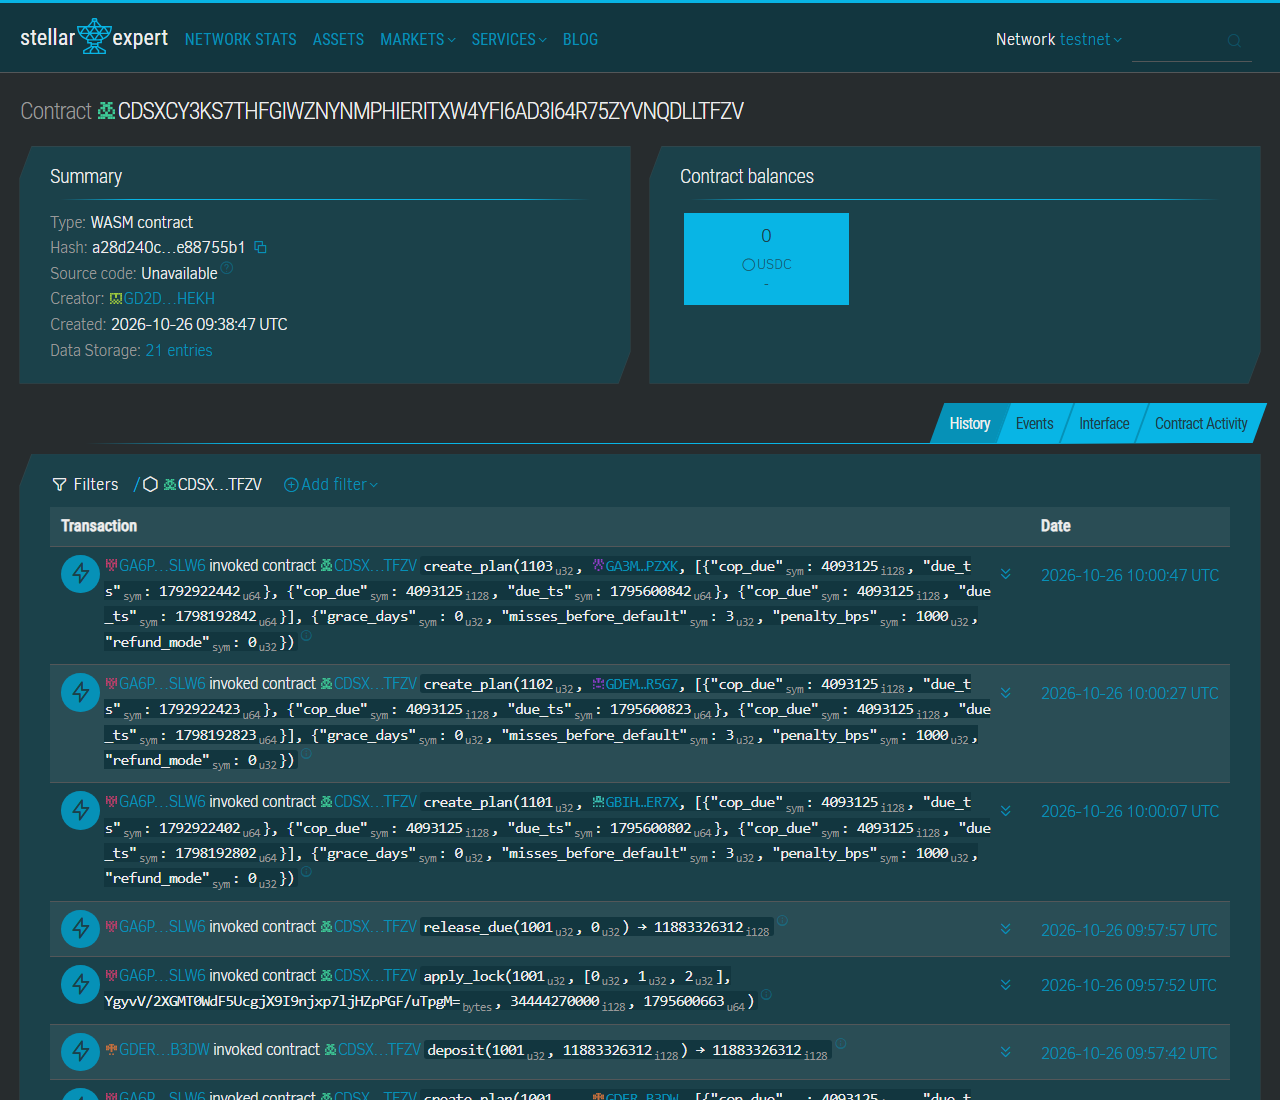
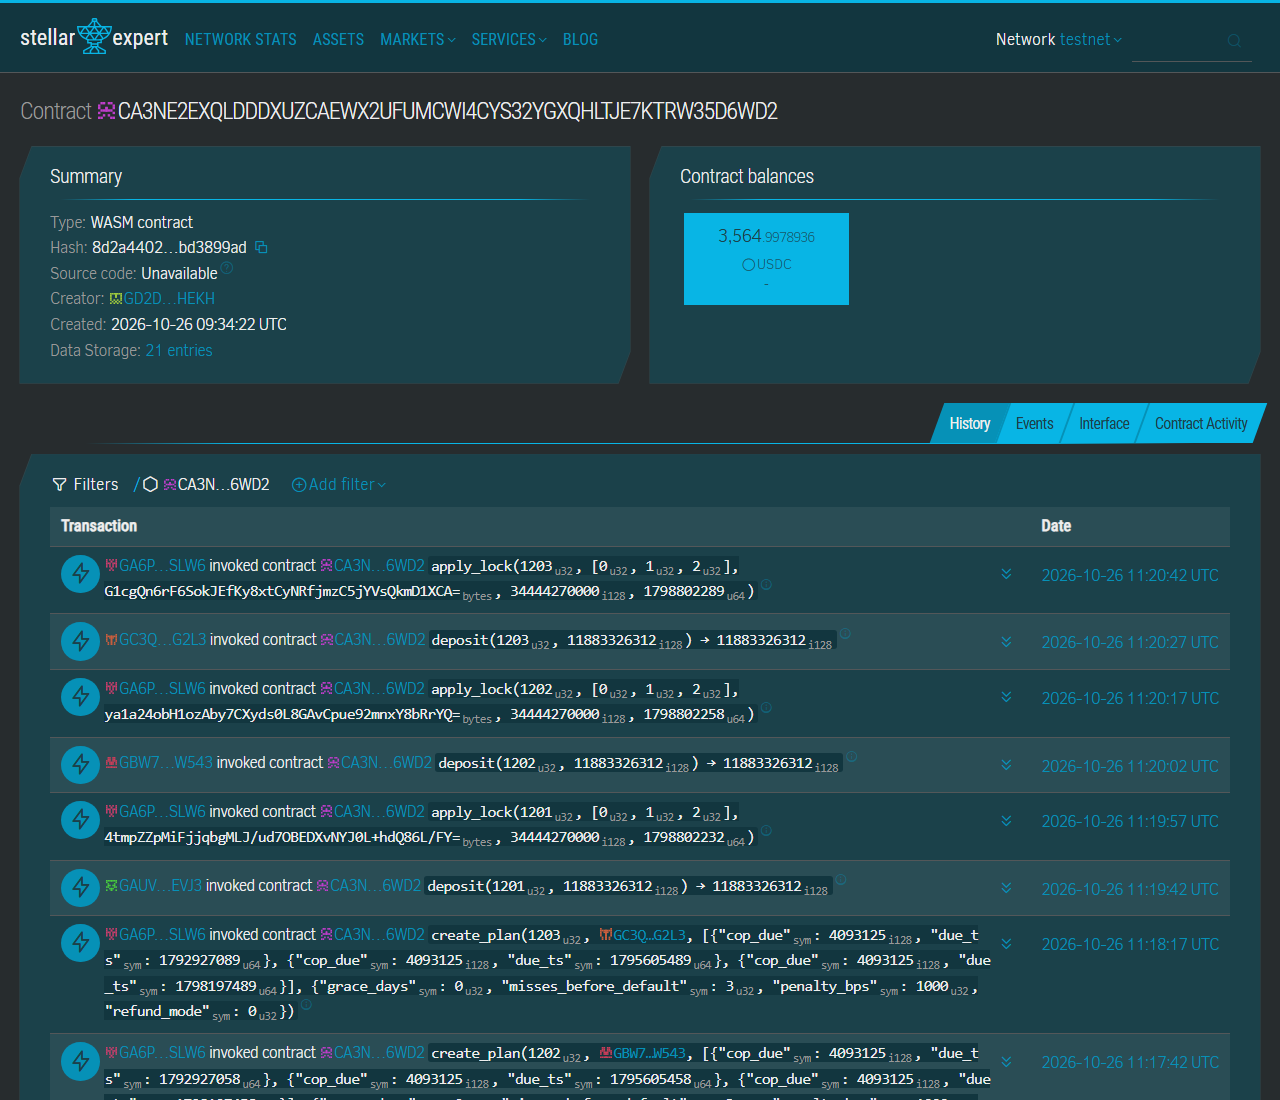
docs(testnet): headline docs on the 8d2a pair; rent cause of the 32.7 XLM deploy
README/RUNNING/CORRIDORS name CA3NE2EX...6WD2 and CACDLCHA...VQGA.
WALKTHROUGH covers plans 1004/2004, the 8d2a pool and the superseded first
run (1001: lock expiry rule fixed afterwards). Screenshots of the headline
pages; first-run shots moved to screenshots/first-run/. Norms: headline
instances entry, rent cause (first instantiation extends the new code
entry's TTL to 120 days), session line. CRLF preserved.

diff --git a/docs/demo-runs/2026-10-26-testnet/WALKTHROUGH.md b/docs/demo-runs/2026-10-26-testnet/WALKTHROUGH.md
@@ -2,19 +2,23 @@
 
 Both corridors ran end to end on Stellar testnet with real transactions. Every hash below was
 re-verified with RPC `getTransaction` (status `SUCCESS`) before it was listed. The full list is
-in [`evidence/testnet-2026-10-26.json`](../../../evidence/testnet-2026-10-26.json): 46
-transactions with their step, corridor, contract, ledger, time, fee and explorer link.
+in [`evidence/testnet-2026-10-26.json`](../../../evidence/testnet-2026-10-26.json): 84
+transactions with their step, contract set, corridor, contract, ledger, time, fee and explorer link.
 
-## Contracts
+## Contracts (headline)
 
-| Corridor | Contract | Wasm | Replaces |
-| --- | --- | --- | --- |
-| Colombia | [`CDSXCY3KS7THFGIWZNYNMPHIERITXW4YFI6AD3I64R75ZYVNQDLLTFZV`](https://stellar.expert/explorer/testnet/contract/CDSXCY3KS7THFGIWZNYNMPHIERITXW4YFI6AD3I64R75ZYVNQDLLTFZV) | `a28d240c…755b1` | `CAVPFFH4…CTXP` |
-| El Salvador | [`CCNWBC5NN5EEWRLTAQ72URIOJ4MDLIAZCIQ3VIL7BUYPPLBPZOTI22MF`](https://stellar.expert/explorer/testnet/contract/CCNWBC5NN5EEWRLTAQ72URIOJ4MDLIAZCIQ3VIL7BUYPPLBPZOTI22MF) | `a28d240c…755b1` | `CC5Y77X3…LEBQ` |
+`stellar contract build` at tag `testnet-2026-10-26` produces Wasm
[1 lines of base64/hex data omitted]
+instances run exactly that Wasm:
+
+| Corridor | Contract | Replaces |
+| --- | --- | --- |
+| Colombia | [`CA3NE2EXQLDDDXUZCAEWX2UFUMCWI4CYS32YGXQHLTJE7KTRW35D6WD2`](https://stellar.expert/explorer/testnet/contract/CA3NE2EXQLDDDXUZCAEWX2UFUMCWI4CYS32YGXQHLTJE7KTRW35D6WD2) | `CAVPFFH4…CTXP` |
+| El Salvador | [`CACDLCHAKPJDVYRKJKK3KKMEBLBKLTYISYX6EQO54VQIZJX3CTUTVQGA`](https://stellar.expert/explorer/testnet/contract/CACDLCHAKPJDVYRKJKK3KKMEBLBKLTYISYX6EQO54VQIZJX3CTUTVQGA) | `CC5Y77X3…LEBQ` |
 
 - Why new instances: the operator stored in the old instances (`GB73VDL7…HS7A`) is not the key in
-  `.env.testnet`, and the contract cannot rotate its operator. Both new instances were deployed from
-  the already-installed Wasm (no upload). Operator and admin are `GA6PFKPK…SLW6`.
+  `.env.testnet`, and the contract cannot rotate its operator. Operator and admin of the new
+  instances are `GA6PFKPK…SLW6`.
 - **Config still points to the old ids.** The owner of `config/**` and the env must set
   `PAYMENT_PLAN_CONTRACT_ID` and `PAYMENT_PLAN_CONTRACT_ID_SV` to the ids above.
 - Settlement asset: a **demo-issued test dollar**, `USDC:GDOLIJWX…MXHE`, SAC
@@ -38,38 +42,33 @@ The buyers are testnet demo accounts. In the demo the platform holds their keys:
 demostración: la plataforma actúa por el comprador". Their secrets are in the gitignored
 `.env.testnet-generated` and are never printed or committed.
 
-## Colombia story: plan 1001
+## Colombia story: plan 1004
 
 | Step | Tx | Ledger | Fee (XLM) |
 | --- | --- | --- | --- |
-| create_plan, 3 installments of COP 4,093,125 (fee-bump) | [`fdb7d7b9…ba98a`](https://stellar.expert/explorer/testnet/tx/fdb7d7b97e08b21d3bb1039020a4767ae979e892e68f4aa95966345c516ba98a) | 5,396,993 | 0.2791889 |
-| deposit 11,883,326,312 (buyer-signed) | [`9da3c22c…166b6`](https://stellar.expert/explorer/testnet/tx/9da3c22c528e9081a9bd5f8dd0c6f4b194e35a6c63a57a58d6e7ad3fa83166b6) | 5,397,015 | 0.0106351 |
-| apply_lock [0,1,2] at 3444.427 × 10^7 | [`d67e4461…492e4`](https://stellar.expert/explorer/testnet/tx/d67e446143f219227162f646c79b65d428206c0e6b5783dc4b7b6c67691492e4) | 5,397,017 | 0.0393002 |
-| release_due M1 → **11,883,326,312** (asserted) | [`6f5726af…1ca49`](https://stellar.expert/explorer/testnet/tx/6f5726af8d87c4c0f2343b9b0d85e1d6a065143818b243296f56bff2cad1ca49) | 5,397,018 | 0.0011973 |
+| create_plan, 3 × COP 4,093,125, M1 due yesterday (fee-bump) | [`604dc03c…400c8`](https://stellar.expert/explorer/testnet/tx/604dc03c6a8752e0474ff769ce93162177e459956559d613dc007b5ac60400c8) | 5,397,945 | 0.2791889 |
+| deposit 11,883,326,312 (buyer-signed) | [`7b655243…286d9`](https://stellar.expert/explorer/testnet/tx/7b65524307a07a3ba2bc4d2fa371c1b8f85cf1ac4dd56dccdf60a0e833f286d9) | 5,397,947 | 0.0106351 |
+| apply_lock [0,1,2] at 34444270000, expiry = M3 due + 7 days | [`45c5f39a…322b6`](https://stellar.expert/explorer/testnet/tx/45c5f39a7a46eced3c69b018e19b2e07953f75e19a9dabf73e8d901aca3322b6) | 5,397,949 | 0.0393005 |
+| release_due M1 → **11,883,326,312** (asserted) | [`3b191798…bb84c`](https://stellar.expert/explorer/testnet/tx/3b1917981c6cd9a79c91d1a935f9cd8f3c8e9f11b6b899a991ee88dd8b0bb84c) | 5,397,951 | 0.0011973 |
 
-`node scripts/testnet/show-plan.mjs co 1001`:
+`node scripts/testnet/show-plan.mjs co 1004`:
 
 | idx | due (UTC) | amount (cop_due field) | status | locked rate | usd_due | lock expiry |
 | --- | --- | --- | --- | --- | --- | --- |
-| 0 | 2026-10-25 | COP 4,093,125 | Released | 3444.427 | 1188.33 | 2026-11-25 |
-| 1 | 2026-11-25 | COP 4,093,125 | Locked | 3444.427 | 1188.33 | 2026-11-25 |
-| 2 | 2026-12-25 | COP 4,093,125 | Locked | 3444.427 | 1188.33 | 2026-11-25 |
+| 0 | 2026-10-25 | COP 4,093,125 | Released | 3444.427 | 1188.33 | 2027-01-01 |
+| 1 | 2026-11-25 | COP 4,093,125 | Locked | 3444.427 | 1188.33 | 2027-01-01 |
+| 2 | 2026-12-25 | COP 4,093,125 | Locked | 3444.427 | 1188.33 | 2027-01-01 |
 
-**Known issue on 1001:** its lock expiry was set to now + 30 days (2026-11-25). That is the same
-day M2 is due and a month before M3. `apply_lock` only accepts `Open` installments, so the plan
-cannot be re-locked, and it stays as recorded. The script now sets expiry to the due date of the
-last locked installment + 7 days. Pool plans 1101–1103 use the fix (expiry 2027-01-01).
-
-## El Salvador story: plan 2001
+## El Salvador story: plan 2004
 
 | Step | Tx | Ledger | Fee (XLM) |
 | --- | --- | --- | --- |
-| create_plan, 3 installments of 75000 cents (fee-bump) | [`3f5d8832…bd1f2`](https://stellar.expert/explorer/testnet/tx/3f5d8832a4fbbf4a0dbb374c87b4fe1db636eaa84e090344eee0eddc5dabd1f2) | 5,397,035 | 0.2791889 |
-| deposit 7,500,000,000 (buyer-signed) | [`8520af67…72b61`](https://stellar.expert/explorer/testnet/tx/8520af675abc968d5b7c404d9d38a3c516e9ea3c4a837bef0e4415de6c972b61) | 5,397,036 | 0.0106351 |
-| release_spot M1 → **7,500,000,000** (asserted) | [`96ca4399…59d43`](https://stellar.expert/explorer/testnet/tx/96ca43992139cca799e827d58e99cd7b1e2e2aae8d8ec93d99665ab84bb59d43) | 5,397,037 | 0.0012025 |
+| create_plan, 3 × 75000 cents, M1 due yesterday (fee-bump) | [`96c78785…8a396`](https://stellar.expert/explorer/testnet/tx/96c787856c023a14982a7ce00ea00bace40f341a1bc8096dd9b8051d5c48a396) | 5,397,957 | 0.2791889 |
+| deposit 7,500,000,000 (buyer-signed) | [`a451f54f…202dd0`](https://stellar.expert/explorer/testnet/tx/a451f54f60cd36680b68b943502ace0a9abb5621a35547097c5940a937202dd0) | 5,397,959 | 0.0106351 |
+| release_spot M1 → **7,500,000,000** (asserted) | [`87483b6c…a8849`](https://stellar.expert/explorer/testnet/tx/87483b6c7aee9461d28c6859711656988b0a5a25bdc986f09d1df621503a8849) | 5,397,961 | 0.0012025 |
 | apply_lock on corridor `sv` (service layer) | refused before any tx: `LocksDisabledError`, code `LOCKS_DISABLED` | n/a | 0 |
 
-`node scripts/testnet/show-plan.mjs sv 2001`:
+`node scripts/testnet/show-plan.mjs sv 2004`:
 
 | idx | due (UTC) | amount (cop_due field) | status | locked rate | usd_due | lock expiry |
 | --- | --- | --- | --- | --- | --- | --- |
@@ -79,38 +78,58 @@ last locked installment + 7 days. Pool plans 1101–1103 use the fix (expiry 202
 
 ## Live-demo pool
 
-Listed in [`pool.json`](pool.json). In every plan M1 is already due and deposited. `create_plan`
-accepts a past `due_ts` (`lib.rs:763-768` checks only that due dates increase), so no waiting is
-needed. Colombia plans are also locked, so the live step is a single release:
+Listed in [`pool-8d2a.json`](pool-8d2a.json). In every plan M1 is already due and deposited.
+`create_plan` accepts a past `due_ts` (`lib.rs:763-768` checks only that due dates increase), so
+no waiting is needed. Colombia plans are also locked (expiry = M3 due + 7 days), so the live step
+is a single release:
 
 | Plans | Contract | Live step |
 | --- | --- | --- |
-| 1101, 1102, 1103 | Colombia | `release_due(plan, 0)`: pays 11,883,326,312 stroops |
-| 2101, 2102, 2103 | El Salvador | `release_spot(plan, 0, 7500000000)` |
+| 1201, 1202, 1203 | Colombia `CA3NE2EX…6WD2` | `release_due(plan, 0)`: pays 11,883,326,312 stroops |
+| 2201, 2202, 2203 | El Salvador `CACDLCHA…VQGA` | `release_spot(plan, 0, 7500000000)` |
+
+## First run (superseded)
+
+The first run of the day used instances deployed from the already-installed Wasm `a28d240c…755b1`
+(Colombia `CDSXCY3K…TFZV`, El Salvador `CCNWBC5N…22MF`), with the same operator, asset and payees.
+It passed the same gates: plan 1001 released 11,883,326,312, plan 2001 released 7,500,000,000, and
+the SV lock refusal was captured. It also has a pool (1101–1103, 2101–2103; [`pool.json`](pool.json)).
+It is superseded because the tagged source builds `8d2a4402`, not `a28d240c`. Its transactions stay
+in the evidence with `contractSet: "superseded"`, and its screenshots are in `screenshots/first-run/`.
+
+**Plan 1001: first run; lock expiry rule fixed afterwards.** Its lock expiry was set to now + 30
+days (2026-11-25). That is M2's due date and a month before M3's (2026-12-25). `apply_lock` only
+accepts `Open` installments, so the plan cannot be re-locked and stays as recorded. Every later lock
+uses expiry = the last locked installment's due date + 7 days.
 
 ## Costs (XLM, fees charged per Horizon)
 
 | | XLM |
 | --- | --- |
 | Setup: trustlines, test-dollar SAC, Wasm upload, 4 instance deploys | 34.9477319 |
-| Stories (Colombia + El Salvador) | 0.6213880 |
-| Pool (6 plans, buyer funding, deposits, 3 locks) | 1.7996559 |
-| **Total** | **37.3687758** |
+| Headline stories (1004, 2004) | 0.6213883 |
+| Headline pool (6 plans, buyer funding, deposits, 3 locks) | 1.7996619 |
+| Superseded first run (stories and pool on the a28d pair) | 2.4210439 |
+| **Total** | **39.7898260** |
 
-The setup figure includes the `8d2a4402` Wasm upload (2.0304609) and its two instances
-(`CA3NE2EX…6WD2` 32.6984771, `CACDLCHA…VQGA` 0.0712406). Those were deployed on an instruction
-that was later superseded and are not used by the demo. One `create_plan` costs 0.2791889 XLM.
-The 1,008 XLM measured on 2026-10-25 no longer applies (see the norms ledger).
+Inside setup: the `8d2a` Wasm upload cost 2.0304609, the first `8d2a` instance (Colombia)
+32.6984771, and each later instance 0.0712406. The 32.7 XLM is **rent**: 32.6980303 XLM of
+`rent_fee_charged`. The constructor's `instance().extend_ttl` also extends the contract **code**
+entry. The just-uploaded code had the minimum TTL (until ledger 5,517,693), and the first
+instantiation extended it to 7,470,335 (120 days) for 31 KB of code. Later instances found the code
+already extended. One `create_plan` costs 0.2791889 XLM. The 1,008 XLM measured on 2026-10-25 no
+longer applies (see the norms ledger).
 
 ## Screenshots
 
-`screenshots/`: both contract pages and the six story transactions on stellar.expert. Each page
-was checked to show its contract id or transaction hash (`screenshots/screenshots.json`).
+`screenshots/`: both headline contract pages and the seven headline story transactions on
+stellar.expert. Each page was checked to show its contract id or transaction hash
+(`screenshots/screenshots.json`).
 
 ## Re-running
 
 ```bash
 node scripts/testnet/preflight.mjs                     # balances, network, wasm hashes
-node scripts/testnet/show-plan.mjs co 1101             # any plan's on-chain state
+node scripts/testnet/show-plan.mjs co 1201             # any plan's on-chain state (--set a28d for the first run)
 node scripts/testnet/evidence.mjs                      # re-verify every hash, rewrite the evidence
 ```

diff --git a/docs/STELLAR_NORMS.md b/docs/STELLAR_NORMS.md
@@ -50,6 +50,7 @@ Seeded 2026-10-20 from `research/raven-scope.md` (Raven pass of 2026-10-19).
 - 2026-10-26 · contract · `create_plan` accepts past `due_ts`: it checks only `cop_due > 0` and strictly increasing due dates (`lib.rs:763-768`), never the ledger time; `release_due` requires `now >= due_ts` (`lib.rs:915`). Demo plans use M1 = yesterday so releases are due at once. `apply_lock` takes any `expiry_ts`; set it to the last locked installment's due date + 7 days. Plan 1001 was locked with expiry before M3's due date and cannot be re-locked (`apply_lock` needs `Open`). Source: code read + `show-plan.mjs` · Confidence: high (tested on chain)
 - 2026-10-26 · contract · `deposit` requires the **buyer's** auth (`lib.rs:820`) and pulls USDC from `plan.buyer` (`lib.rs:821-827`): an operator address cannot fund a plan with the current Wasm. Operator-funded deposits = float pays the demo buyer, then the platform signs `deposit` as the buyer ("cuenta de demostración: la plataforma actúa por el comprador"). Source: code read; deposits on chain 2026-10-26 · Confidence: high
 - 2026-10-26 · stellar-sdk · `@stellar/stellar-sdk` 17.2.1 (root node_modules) decodes XDR to **plain objects**: `entry.val.contractData` is a property, `executable.type === 'contractExecutableWasm'`, `wasmHash.value` a Uint8Array, auth entries expose `credentials.type`. Accessor-style code (`.contractData()`, `.switch()`) throws. `authorizeEntry(entry, signer, until, passphrase, forAddress)` signs one address. Source: scripts/testnet/* at runtime · Confidence: high (ran)
+- 2026-10-26 · contract · **Headline testnet instances** run Wasm `8d2a440260ae…899ad`, which is what `stellar contract build` produces at tag `testnet-2026-10-26` (clean rebuild, 31,104 B; changing the Cargo `description` leaves the hash unchanged): Colombia `CA3NE2EXQLDDDXUZCAEWX2UFUMCWI4CYS32YGXQHLTJE7KTRW35D6WD2`, El Salvador `CACDLCHAKPJDVYRKJKK3KKMEBLBKLTYISYX6EQO54VQIZJX3CTUTVQGA`. Same operator/admin, test dollar and payees as the a28d pair. Headline plans 1004 (CO, released 11,883,326,312) and 2004 (SV, released 7,500,000,000); live-demo pool 1201–1203 / 2201–2203. The a28d pair `CDSXCY3K…TFZV` / `CCNWBC5N…22MF` is the superseded first run. Source: `stories-8d2a.json`, `evidence/testnet-2026-10-26.json` · Confidence: high (on chain) · Supersedes: 2026-10-26 entries naming the a28d pair as the new instances and the 8d2a pair as unused
 
 ## SDK 28 breaking changes (apply only if pinned to 28)
 
@@ -77,6 +78,7 @@ Seeded 2026-10-20 from `research/raven-scope.md` (Raven pass of 2026-10-19).
 - 2026-10-25 · rent · Plan creation is above the single-transaction fee cap on testnet: `create_plan` simulates at **1,008 XLM for 3 installments and 4,929 XLM for 24**, on both instances (CAVPFFH4…CCTXP and CC5Y77…LEBQ), against the 429.5 XLM a uint32 fee field can carry. Same cause as the Wasm upload entries above: live Soroban state above `soroban_state_target_size_bytes`, so rent on new persistent entries (one per installment) is steep and the fee grows with the installment count. Consequence: no new demo plan can be created on testnet. The services do not retry and spend nothing: a reset keeps a chain plan the instance already holds, otherwise the plan runs off chain, recorded in `demo_state.simulatedPlans` with the reason and logged (`DemoApi.reset`, test `DemoApi.reset.test.ts`). Re-measure before any testnet demo. Source: `simulateTransaction` through the services' submitter (typed `FeeTooHigh`), 2026-10-25 · Confidence: high (simulated; not re-run in the backend session, which made no testnet calls)
 - 2026-10-26 · rent · Testnet `soroban_state_target_size_bytes` is now **7,000,000,000** (was 4,000,000,000 on 2026-10-24/25; `rent_fee1_kb_soroban_state_size_low` -17000, `_high` 10000, growth factor 5000). Live state (~4.01 GB) is below the new target, so rent on new entries is back to the low band. Measured: `create_plan` with 3 installments on CAVPFFH4…CTXP simulates at **0.3213512 XLM** resource fee (0.3213612 XLM total), down from 1,008 XLM. The uint32 fee field (429.5 XLM) is no longer the limit for plan creation; a plain transaction builds and so does a fee-bump with inner fee 100 + sorobanData (outer 0.3213912 XLM). The 2026-10-25 Wasm-upload figures (697–738.5 XLM) are likely stale too: re-simulate before deferring the upgrade again. Source: `stellar network settings --network testnet`; `scripts/testnet/fee-bump-gate.mjs` dry run at ledger 5,396,288, `docs/demo-runs/2026-10-26-testnet/fee-bump-gate-dryrun.json` · Confidence: high (simulated on testnet; not submitted, see next entry) · Supersedes: 2026-10-25 entry on plan creation above the fee cap
 - 2026-10-26 · keys · The operator stored in both payment_plan instances is `GB73VDL7…HS7A` (`get_config`). `TESTNET_OPERATOR_SECRET` in `.env.testnet` derives to a different, newly funded account (`GA6PFKPK…SLW6`), so `create_plan`, `apply_lock`, `release_due` and `release_spot` cannot be signed with it. The contract has no operator-rotation entrypoint (only admin `upgrade`), so the demo needs the original operator key or new instances deployed with the new operator. Source: `get_config` simulation, 2026-10-26 · Confidence: high (read on chain)
+- 2026-10-26 · rent · **Cause of the 32.70 XLM first deploy:** `rent_fee_charged` 326,980,303 stroops of 326,984,571 charged (non-refundable 4,270). The constructor's `env.storage().instance().extend_ttl(..)` extends the contract instance **and its code entry**. The just-uploaded `8d2a` code (ledger key hash `407f9676…`, verified = sha256 of `LedgerKey::ContractCode(8d2a…)`) had the minimum TTL from the upload (live until 5,517,693, ~7 days on testnet); the first instantiation extended it to 7,470,335 (`TTL_EXTEND_TO` = 120 days), i.e. ~1.95 M ledgers of rent on 31 KB. The second instance (`3ee1da99…`) changed only its own instance TTL: rent 707,939 stroops. So bringing new code live really costs upload (2.03 XLM) + the first extension (32.7 XLM) at today's rates; budget both. Source: RPC `getTransaction` (`xdrFormat: json`) for `7009a795…` and `3ee1da99…` · Confidence: high (decoded meta) · Supersedes: 2026-10-26 entry calling the cause "not verified"
 
 ## Tokens and USDC
 
@@ -134,6 +136,7 @@ Seeded 2026-10-20 from `research/raven-scope.md` (Raven pass of 2026-10-19).
 
 <!-- Each session appends: date · norms check result · entries added. -->
 
+- 2026-10-26 · Testnet run follow-up (headline on the 8d2a pair, rent cause, Cargo description) · Norms check: unchanged from the entry below. Entries added: 2 (headline instances superseding the a28d entry; 32.7 XLM rent cause). Contract change: Cargo `description` only (metadata; Wasm hash unchanged, 40 tests pass); soroban-common-mistakes not re-run (no source change since the review).
 - 2026-10-26 · Testnet demo run with evidence (es/testnet) · Norms check: rustc 1.98.1, stellar CLI 28.1.0, soroban-sdk newest stable 29.0.1 (30.0.0-rc.1 pre-release), testnet protocol 29 (core 30.0.0), mainnet protocol 29: no change. **Norms changed:** testnet `soroban_state_target_size_bytes` raised to 7 GB, so plan creation (0.28 XLM) and Wasm upload (2.03 XLM) are cheap again. Entries added: 12 (state target, operator mismatch, new instances, 8d2a upload, past due_ts and lock expiry, deposit auth, sdk 17 plain XDR, test dollar, SV cents, fee-bump, pool design, demo keys). Companion skill: soroban-common-mistakes (0 critical, 2 warnings, 4 info; no operator rotation is the main one). No licenses checked (no new dependency).
[1 lines of base64/hex data omitted]
 - 2026-10-25 · El Salvador backend loose ends (services fixes, migrations, docs; no contract change, no deploy, no testnet call, no XLM spent) · Norms check: no change from 2026-10-24 (testnet and mainnet protocol 29; soroban-sdk 29.0.1 stable, 30.0.0-rc.1 pre-release; rustc 1.98.1; CLI 28.1.0). Entries added: 5 (norms check; SV instance from the installed Wasm with its deploy fee; plan creation above the fee cap on both instances; companion-skill licenses; PGlite Apache-2.0). License checks: PGlite Apache-2.0 (tooling). `soroban-common-mistakes`: not run (no contract change).

diff --git a/docs/RUNNING.md b/docs/RUNNING.md
@@ -11,7 +11,7 @@ The app runs in two modes with identical screens:
 
 ## Deployed contract
 
[2 lines of base64/hex data omitted]
 
 ## Prerequisites
 
@@ -113,8 +113,8 @@ a **second instance** of the same Wasm, with its own payee:
 
 | Corridor | Contract | Wasm |
 | --- | --- | --- |
-| Colombia | [`CDSXCY3KS7THFGIWZNYNMPHIERITXW4YFI6AD3I64R75ZYVNQDLLTFZV`](https://stellar.expert/explorer/testnet/contract/CDSXCY3KS7THFGIWZNYNMPHIERITXW4YFI6AD3I64R75ZYVNQDLLTFZV) | `a28d240c…755b1` (2026-10-26; replaces `CAVPFFH4…CTXP`) |
-| El Salvador | [`CCNWBC5NN5EEWRLTAQ72URIOJ4MDLIAZCIQ3VIL7BUYPPLBPZOTI22MF`](https://stellar.expert/explorer/testnet/contract/CCNWBC5NN5EEWRLTAQ72URIOJ4MDLIAZCIQ3VIL7BUYPPLBPZOTI22MF) | `a28d240c…755b1` (2026-10-26, from the installed hash, no upload; replaces `CC5Y77X3…LEBQ`). On this instance the `cop_due` field holds USD cents. |
+| Colombia | [`CA3NE2EXQLDDDXUZCAEWX2UFUMCWI4CYS32YGXQHLTJE7KTRW35D6WD2`](https://stellar.expert/explorer/testnet/contract/CA3NE2EXQLDDDXUZCAEWX2UFUMCWI4CYS32YGXQHLTJE7KTRW35D6WD2) | `8d2a4402…899ad` (2026-10-26; replaces `CAVPFFH4…CTXP`) |
+| El Salvador | [`CACDLCHAKPJDVYRKJKK3KKMEBLBKLTYISYX6EQO54VQIZJX3CTUTVQGA`](https://stellar.expert/explorer/testnet/contract/CACDLCHAKPJDVYRKJKK3KKMEBLBKLTYISYX6EQO54VQIZJX3CTUTVQGA) | `8d2a4402…899ad` (2026-10-26; replaces `CC5Y77X3…LEBQ`). On this instance the `cop_due` field holds USD cents. |
 
 Corridor details (holidays, MoneyGram limits, payout options, the seller gate) are in
 [CORRIDORS.md](CORRIDORS.md).

diff --git a/README.md b/README.md
@@ -8,7 +8,7 @@ Chateaux lets a Colombian buyer living in the United States pay the down-payment
 
 **How to run it:** see [docs/RUNNING.md](docs/RUNNING.md). Contract reference: [docs/CONTRACT.md](docs/CONTRACT.md).
 
[2 lines of base64/hex data omitted]
 
 ## Architecture
 

diff --git a/docs/CORRIDORS.md b/docs/CORRIDORS.md
@@ -11,7 +11,7 @@ which business-day calendar sets grace and credit dates. Every plan belongs to o
 | Conversion leg | USD → COP through the off-ramp | none (USD end to end) |
 | Rate lock | yes | no |
 | Payee | the buyer's encargo at Fidudavivienda | the seller's account (option A or B) |
-| Contract instance | `PAYMENT_PLAN_CONTRACT_ID` (`CDSXCY3KS7THFGIWZNYNMPHIERITXW4YFI6AD3I64R75ZYVNQDLLTFZV` since 2026-10-26; was `CAVPFFH4…CTXP`) | `PAYMENT_PLAN_CONTRACT_ID_SV` (`CCNWBC5NN5EEWRLTAQ72URIOJ4MDLIAZCIQ3VIL7BUYPPLBPZOTI22MF` since 2026-10-26; was `CC5Y77X3…LEBQ`) |
+| Contract instance | `PAYMENT_PLAN_CONTRACT_ID` (`CA3NE2EXQLDDDXUZCAEWX2UFUMCWI4CYS32YGXQHLTJE7KTRW35D6WD2` since 2026-10-26; was `CAVPFFH4…CTXP`) | `PAYMENT_PLAN_CONTRACT_ID_SV` (`CACDLCHAKPJDVYRKJKK3KKMEBLBKLTYISYX6EQO54VQIZJX3CTUTVQGA` since 2026-10-26; was `CC5Y77X3…LEBQ`) |
 
 Both instances run the same Wasm. Everything that differs between corridors comes from one file,
 `config/corridors.ts`, which the services read through `corridorOf(plan)` and the web app reads
